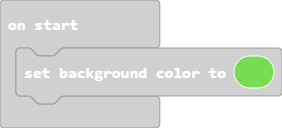
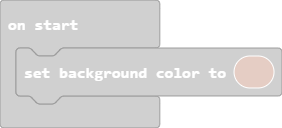
Update main.blocks, main.ts

Changed region(s): [[0.8227, 0.4375, 0.9929, 0.6875]]

diff --git a/main.ts b/main.ts
@@ -1,1 +1,1 @@
-scene.setBackgroundColor(7)
+scene.setBackgroundColor(13)
